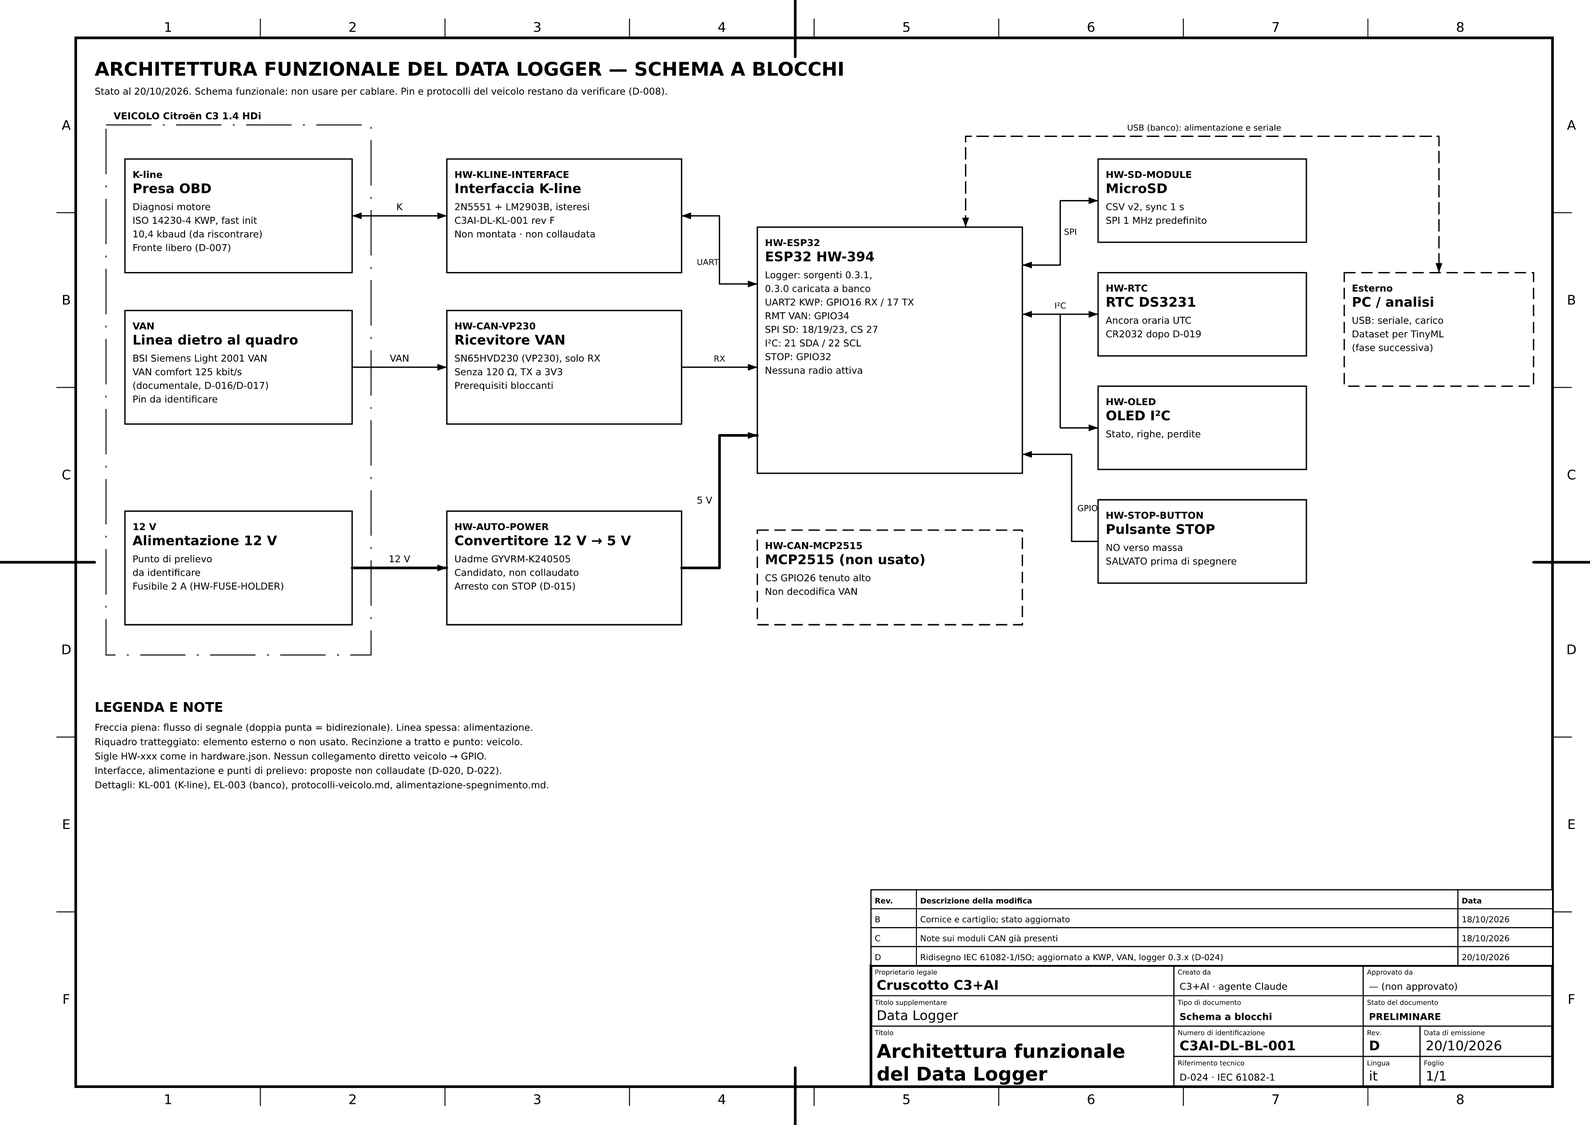
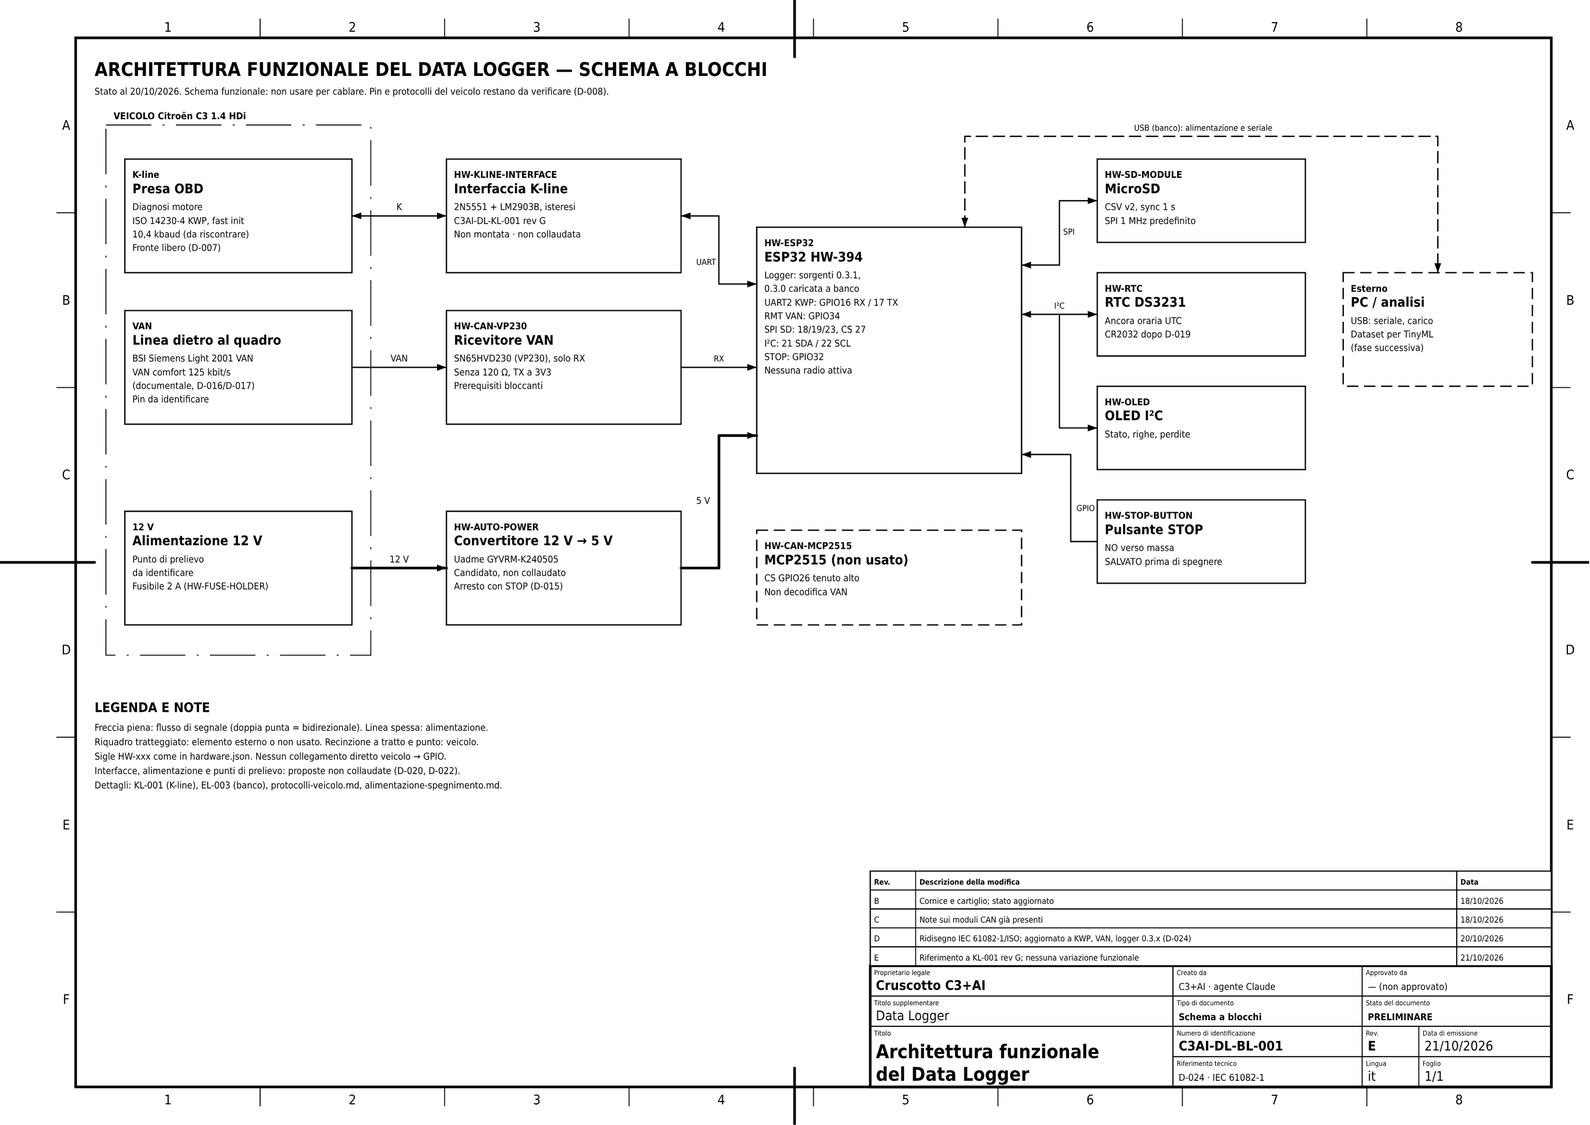
K-line: R3 del simulatore a 1 W 5% (D-028), KL-001 rev G
- D-028: R3 510 ohm 1 W al 5% (all'1% reperibile solo 0,6 W, all'85%
  della nominale a 16 V). Soglie e isteresi invariate (R4-R8, R10 all'1%).
- KL-001 rev G: distinta sul foglio e modello DC ricalcolati
  (R3 max 0,528 W, beta forzato max 8,87 < 10). BL-001 rev E: solo
  riferimento a KL-001 rev G.
- Distinta rev K, kline-autocostruita.md rev G con codici candidati
  Farnell (LM2903BYDT, 2N5551BU, EP1WSS510RJ) e datasheet ST LM2903B.
- hardware.json e inventario rigenerato.

Limiti: componenti non ordinati, nulla montato o collaudato. Anteprime
PNG rese con Chromium headless (resvg non disponibile qui). Nessuna
modifica firmware: build non ripetuta.

Claude-Session: https://claude.ai/code/session_01K5uUfRR1cYXhNcFagR7vVd

diff --git a/data-logger/docs/tools/genera-kline-banco.py b/data-logger/docs/tools/genera-kline-banco.py
@@ -35,16 +35,16 @@ assert min(hyst)>.4, 'hysteresis below 0.4 V at K'
 max_input=vsense(16,67320,10100,R10*.99,3.465,4700*.99)
 assert max_input < 4.75-2
 base_min=(2.5-1.2)/(330*1.05)-1.2/(47000*.95)
-collector_max=16/(510*.99)
+collector_max=16/(510*.95)  # rev G: R3 5 % (D-028)
 assert collector_max/base_min<10
-print(f"DC model: falling/VBAT={min(falling):.4f}..{max(falling):.4f}; rising/VBAT={min(rising):.4f}..{max(rising):.4f}; hysteresis_K={min(hyst):.3f}..{max(hyst):.3f}V; input_max={max_input:.3f}V; forced_beta_max={collector_max/base_min:.2f}; R3_power_max={16**2/(510*.99):.3f}W")
+print(f"DC model: falling/VBAT={min(falling):.4f}..{max(falling):.4f}; rising/VBAT={min(rising):.4f}..{max(rising):.4f}; hysteresis_K={min(hyst):.3f}..{max(hyst):.3f}V; input_max={max_input:.3f}V; forced_beta_max={collector_max/base_min:.2f}; R3_power_max={16**2/(510*.95):.3f}W")
 
 
 
 def it(v, n): return f'{v:.{n}f}'.replace('.', ',')
 
-# --- Disegno C3AI-DL-KL-001 rev F (D-024): IEC 60617 / IEC 61082-1, foglio ISO 5457 A3 ---
-d = Sheet('C3AI-DL-KL-001 rev F — Interfaccia K-line autocostruita')
+# --- Disegno C3AI-DL-KL-001 rev G (D-024, D-028): IEC 60617 / IEC 61082-1, foglio ISO 5457 A3 ---
+d = Sheet('C3AI-DL-KL-001 rev G — Interfaccia K-line autocostruita')
 d.frame()
 d.text(25, 20, 'INTERFACCIA K-LINE AUTOCOSTRUITA — SCHEMA ELETTRICO', 5, bold=True)
 d.text(25, 25, 'Prototipo da banco, non collaudato. Nessun collegamento al veicolo autorizzato da questo documento.', 2.5)
@@ -129,7 +129,7 @@ parts = [
     ('10', 'R10', '1', '330 kΩ, 0,25 W, 1 %', 'Isteresi (rev E, D-022)'),
     ('11', 'C1', '1', '100 nF, ceramico', 'Vicino ai pin 8 e 4 di U1'),
     ('12', 'C2', '1', '10 µF, 16 V, elettrolitico', 'Rispettare la polarità'),
-    ('13', 'R3', '1', '510 Ω, 1 W, 1 %', 'Solo -A2 simulatore, non nel modulo'),
+    ('13', 'R3', '1', '510 Ω, 1 W, 5 %', 'Solo -A2 simulatore, non nel modulo'),
     ('14', '—', '1 ins.', 'Millefori, morsetti, fili', ''),
 ]
 d.parts_list(25, 192, parts, widths=(10, 15, 11, 62, 82))
@@ -145,9 +145,9 @@ d.notes(212, 196, 'NOTE', [
 ], step=3.6)
 d.title_block(title=['Interfaccia K-line', 'autocostruita'], subtitle='Data Logger',
               doc_type='Schema elettrico', status='NON COLLAUDATO · solo banco',
-              code='C3AI-DL-KL-001', rev='F', date='20/10/2026', sheet='1/1',
-              revisions=[('C', 'Eliminato JP1; R3 solo nel simulatore esterno (D-018)', '18/10/2026'),
-                         ('D', 'Porte esterne evidenziate; nessuna variazione elettrica', '18/10/2026'),
+              code='C3AI-DL-KL-001', rev='G', date='21/10/2026', sheet='1/1',
+              revisions=[('D', 'Porte esterne evidenziate; nessuna variazione elettrica', '18/10/2026'),
                          ('E', 'Aggiunta R10 per isteresi del comparatore (D-022)', '20/10/2026'),
-                         ('F', 'Ridisegno secondo IEC 60617 / IEC 61082-1 / ISO 5457 / ISO 7200 (D-024)', '20/10/2026')])
+                         ('F', 'Ridisegno secondo IEC 60617 / IEC 61082-1 / ISO 5457 / ISO 7200 (D-024)', '20/10/2026'),
+                         ('G', 'R3 con tolleranza 5 % (D-028); reti e valori invariati', '21/10/2026')])
 (ROOT/'schema-kline-banco.svg').write_text(d.svg('Schema elettrico IEC 61082-1 dell\'interfaccia K-line da banco; non collaudato.'), encoding='utf-8')

diff --git a/data-logger/docs/tools/genera-schemi.py b/data-logger/docs/tools/genera-schemi.py
@@ -79,7 +79,7 @@ d.title_block(title=['Collegamenti proposta', 'iniziale (storico)'], subtitle='D
 (ROOT / 'schema-collegamenti.svg').write_text(d.svg('Documento storico, sostituito da C3AI-DL-EL-003.'), encoding='utf-8')
 
 # ---------------------------------------------------------------- BL-001 ---
-b = Sheet('C3AI-DL-BL-001 rev D — Architettura funzionale del Data Logger')
+b = Sheet('C3AI-DL-BL-001 rev E — Architettura funzionale del Data Logger')
 b.frame()
 b.text(25, 20, 'ARCHITETTURA FUNZIONALE DEL DATA LOGGER — SCHEMA A BLOCCHI', 5, bold=True)
 b.text(25, 25, 'Stato al 20/10/2026. Schema funzionale: non usare per cablare. Pin e protocolli del veicolo restano da verificare (D-008).', 2.5)
@@ -89,7 +89,7 @@ b.block(33, 42, 60, 30, 'Presa OBD', ['Diagnosi motore', 'ISO 14230-4 KWP, fast 
 b.block(33, 82, 60, 30, 'Linea dietro al quadro', ['BSI Siemens Light 2001 VAN', 'VAN comfort 125 kbit/s', '(documentale, D-016/D-017)', 'Pin da identificare'], ref='VAN')
 b.block(33, 135, 60, 30, 'Alimentazione 12 V', ['Punto di prelievo', 'da identificare', 'Fusibile 2 A (HW-FUSE-HOLDER)'], ref='12 V')
 
-b.block(118, 42, 62, 30, 'Interfaccia K-line', ['2N5551 + LM2903B, isteresi', 'C3AI-DL-KL-001 rev F', 'Non montata · non collaudata'], ref='HW-KLINE-INTERFACE')
+b.block(118, 42, 62, 30, 'Interfaccia K-line', ['2N5551 + LM2903B, isteresi', 'C3AI-DL-KL-001 rev G', 'Non montata · non collaudata'], ref='HW-KLINE-INTERFACE')
 b.block(118, 82, 62, 30, 'Ricevitore VAN', ['SN65HVD230 (VP230), solo RX', 'Senza 120 Ω, TX a 3V3', 'Prerequisiti bloccanti'], ref='HW-CAN-VP230')
 b.block(118, 135, 62, 30, 'Convertitore 12 V → 5 V', ['Uadme GYVRM-K240505', 'Candidato, non collaudato', 'Arresto con STOP (D-015)'], ref='HW-AUTO-POWER')
 
@@ -124,10 +124,11 @@ b.notes(25, 188, 'LEGENDA E NOTE', [
 ])
 b.title_block(title=['Architettura funzionale', 'del Data Logger'], subtitle='Data Logger',
               doc_type='Schema a blocchi', status='PRELIMINARE',
-              code='C3AI-DL-BL-001', rev='D', date='20/10/2026', sheet='1/1',
+              code='C3AI-DL-BL-001', rev='E', date='21/10/2026', sheet='1/1',
               revisions=[('B', 'Cornice e cartiglio; stato aggiornato', '18/10/2026'),
                          ('C', 'Note sui moduli CAN già presenti', '18/10/2026'),
-                         ('D', 'Ridisegno IEC 61082-1/ISO; aggiornato a KWP, VAN, logger 0.3.x (D-024)', '20/10/2026')])
+                         ('D', 'Ridisegno IEC 61082-1/ISO; aggiornato a KWP, VAN, logger 0.3.x (D-024)', '20/10/2026'),
+                         ('E', 'Riferimento a KL-001 rev G; nessuna variazione funzionale', '21/10/2026')])
 (ROOT / 'schema-sistema.svg').write_text(b.svg('Schema a blocchi funzionale preliminare, non schema di cablaggio.'), encoding='utf-8')
 
 for f in ROOT.glob('*.svg'):

diff --git a/data-logger/docs/kline-autocostruita.md b/data-logger/docs/kline-autocostruita.md
@@ -1,6 +1,6 @@
 # K-line autocostruita — Cruscotto C3+AI / Data Logger
 
-Revisione F, 20/10/2026. Disegno C3AI-DL-KL-001, rev F (D-022: isteresi R10; D-024: disegno IEC/ISO).
+Revisione G, 21/10/2026. Disegno C3AI-DL-KL-001, rev G (D-022: isteresi R10; D-024: disegno IEC/ISO; D-028: R3 al 5%).
 **Prototipo da banco non collaudato: nessun collegamento al veicolo.**
 Scelta utente: realizzare l'interfaccia in proprio; la scelta non certifica
 il circuito o autorizza pin auto presunti. Ambito D-008, D-010, D-011, D-013.
@@ -19,7 +19,7 @@ Non e una piedinatura del veicolo o una scheda automotive certificata.
 
 ## Distinta per un prototipo da banco
 
-Tutte le resistenze dei partitori a tolleranza 1%; valori da acquistare solo
+Tutte le resistenze dei partitori a tolleranza 1% (R3 del simulatore 5%, D-028); valori da acquistare solo
 se non gia disponibili. Possesso/ordine di questi componenti non confermato.
 
 | Rif. | Quantita | Valore / componente | Nota |
@@ -28,7 +28,7 @@ se non gia disponibili. Possesso/ordine di questi componenti non confermato.
 | U1 | 1 | LM2903B, versione SOIC-8 | Adattatore SOIC-8 → DIP-8; non scambiare con LM2903 senza B |
 | R1 | 1 | 330 ohm, 0,25 W, 5% | Base TX |
 | R2 | 1 | 47 kohm, 0,25 W, 5% | Base-emettitore, Q1 spento a GPIO flottante |
-| R3 | 1 | 510 ohm, 1 W, 1% | Solo simulatore esterno da banco; non montare nel modulo |
+| R3 | 1 | 510 ohm, 1 W, 5% | Solo simulatore esterno da banco; non montare nel modulo (D-028) |
 | R4 | 1 | 68 kohm, 0,25 W, 1% | Partitore K |
 | R5, R7 | 2 | 10 kohm, 0,25 W, 1% | Partitori verso massa |
 | R6 | 1 | 150 kohm, 0,25 W, 1% | Riferimento VBENCH |
@@ -103,9 +103,10 @@ Con resistori all'1% (partitori, R8 e R10), offset assunto +/-3 mV, 3V3 a
 - isteresi riferita alla linea K 0,545-0,721 V, indipendente da VBENCH
   (circa 3,3 V × R4 / (R10 + R8)); in rev D era assente;
 - massimo ingresso comparatore 2,123 V, sotto 4,75-2 V;
-- beta forzato massimo calcolato circa 8,51 con TX minimo assunto 2,5 V,
+- beta forzato massimo calcolato circa 8,87 con TX minimo assunto 2,5 V,
   VBE massimo assunto 1,2 V e tolleranze resistenze base;
-- R3 massimo calcolato 0,507 W a 16 V: selezionata 1 W per il banco.
+- R3 al 5% (minimo 484,5 ohm): massimo calcolato 0,528 W a 16 V, corrente
+  di collettore massima 33 mA; selezionata 1 W per il banco (D-028).
 
 Sono calcoli con ipotesi esplicite: non provano VCEsat al punto reale,
 commutazione del transistor, isteresi, margini ai disturbi, propagazione,
@@ -123,6 +124,7 @@ Schema e generatore prodotti per questo repository, senza copia di immagini
 esterne. Riferimenti funzionali e limiti dei componenti:
 
 - [TI LM2903B datasheet](https://www.ti.com/lit/ds/symlink/lm2903b.pdf): pinout, uscita open collector, alimentazione e campo ingressi; verificare codice ordinato.
+- [ST LM2903B datasheet](https://www.st.com/resource/en/datasheet/lm2903b.pdf): codice candidato LM2903BYDT (SO-8, AEC-Q100); stessa piedinatura del TI, modo comune fino a VCC − 2 V, VOL massima 350 mV a 4 mA e 5 V.
 - [onsemi 2N5551 datasheet](https://www.onsemi.com/pdf/datasheet/2n5551t-d.pdf): NPN TO-92 e caratteristiche; il collaudo resta necessario.
 - [ELM327 DSL](https://elmelectronics.com/wp-content/uploads/2020/05/ELM327DSL.pdf): distinzione KWP fast init da solo invio UART.
 
@@ -143,6 +145,23 @@ alla linea simulata come alla linea della vettura, con alimentazioni e masse
 corrette. Il solo richiamo resistivo simula il carico statico, non risposte ECU,
 disturbi o transitori della vettura; non costituisce collaudo KWP completo.
 In auto non montare R3 aggiuntiva senza riscontro del richiamo gia presente.
+
+## Revisione G — tolleranza di R3, 21/10/2026
+
+D-028. R3 (510 ohm, 1 W) passa da 1% a 5%: all'1% risulta reperibile solo
+una versione da 0,6 W, che a 16 V lavorerebbe all'85% della potenza nominale.
+R3 è solo nel simulatore esterno -A2 e non entra nel calcolo di soglie e
+isteresi, che dipendono da R4-R7, R8 e R10 (invariate all'1%). Il generatore
+ricalcola corrente e dissipazione con 510 ohm − 5%: 0,528 W e beta forzato
+massimo 8,87, entro il limite di 10. Nessun'altra variazione elettrica.
+
+Codici candidati individuati dall'utente su Farnell il 21/10/2026, non ordinati:
+
+| Rif. | Codice | Riscontro sul datasheet |
+| --- | --- | --- |
+| U1 | ST LM2903BYDT (Farnell 4122371) | Versione B in SO-8, piedinatura identica a TI; uscita a collettore aperto dedotta (corrente di fuga specificata a 36 V), non dichiarata da ST |
+| Q1 | onsemi 2N5551BU (Farnell 9846751) | TO-92 sfuso, terminali dritti; datasheet già in fonti. Piedinatura E/B/C da verificare con prova diodo |
+| R3 | TE Neohm EP1WSS510RJ (Farnell 4219432) | 510 ohm, 1 W, 5%, assiale a filo |
 
 ## Revisione F — ridisegno secondo le norme, 20/10/2026
 

diff --git a/data-logger/docs/hardware-inventory.md b/data-logger/docs/hardware-inventory.md
@@ -274,7 +274,7 @@ Le decisioni definitive restano nel [README principale](../../README.md#decision
 
 **Stato:** `candidate` · **Quantità:** 1 · **Ambito:** Data Logger
 
-**Fonte:** Proposta 18/10/2026: https://www.mikroe.com/iso-9141-click e schema ufficiale v101 https://download.mikroe.com/documents/add-on-boards/click/iso_9141_click/iso-9141-click-schematic-v101.pdf. UART, selezione logica 3,3/5 V, VS separata 4,5-36 V. Nessun ordine confermato. Utente: MIKROE-4331 non trovato disponibile il 18/10/2026. Alternative esplorate: interfaccia da assemblare su E-L9637D, oppure Freematics OBD-II UART Adapter V2.1; nessuna alternativa acquistata o confermata. Utente propone circuito discreto con 2 NPN o PC817 e pull-up 510 Ohm/0,5 W: registrato come alternativa non approvata, senza schema completo ne conferma di possesso componenti. Scelta utente 18/10/2026: ok procediamo con il circuito autocostruito (D-013). Progetto locale schema-kline-banco.svg rev A, generatore e calcoli DC in tools/genera-kline-banco.py; nessun risultato sperimentale. Revisione B 18/10/2026: schema completo U1 e distinta sul foglio; pinout TI SLCS005AH sezione 4. Corretto contenitore LM2903B: SOIC-8 con adattatore DIP-8, non PDIP-8. Nessun acquisto o collaudo aggiuntivo. Revisione C, D-018: eliminato JP1; R3 510 ohm solo nel simulatore esterno da banco, non nel modulo. Nessun nuovo acquisto o collaudo. Revisione D: evidenziate porte TX ingresso, RX uscita e K-line bidirezionale; nessuna variazione elettrica. Revisione E 20/10/2026, D-022: R10 330 kohm 1% da OUT1 a IN1+ per isteresi 0,545-0,721 V sulla linea K (modello DC); possesso di R10 non confermato, nessun collaudo. Revisione F 20/10/2026, D-024: ridisegno IEC 60617 / IEC 61082-1 su foglio ISO, nessuna variazione elettrica.
+**Fonte:** Proposta 18/10/2026: https://www.mikroe.com/iso-9141-click e schema ufficiale v101 https://download.mikroe.com/documents/add-on-boards/click/iso_9141_click/iso-9141-click-schematic-v101.pdf. UART, selezione logica 3,3/5 V, VS separata 4,5-36 V. Nessun ordine confermato. Utente: MIKROE-4331 non trovato disponibile il 18/10/2026. Alternative esplorate: interfaccia da assemblare su E-L9637D, oppure Freematics OBD-II UART Adapter V2.1; nessuna alternativa acquistata o confermata. Utente propone circuito discreto con 2 NPN o PC817 e pull-up 510 Ohm/0,5 W: registrato come alternativa non approvata, senza schema completo ne conferma di possesso componenti. Scelta utente 18/10/2026: ok procediamo con il circuito autocostruito (D-013). Progetto locale schema-kline-banco.svg rev A, generatore e calcoli DC in tools/genera-kline-banco.py; nessun risultato sperimentale. Revisione B 18/10/2026: schema completo U1 e distinta sul foglio; pinout TI SLCS005AH sezione 4. Corretto contenitore LM2903B: SOIC-8 con adattatore DIP-8, non PDIP-8. Nessun acquisto o collaudo aggiuntivo. Revisione C, D-018: eliminato JP1; R3 510 ohm solo nel simulatore esterno da banco, non nel modulo. Nessun nuovo acquisto o collaudo. Revisione D: evidenziate porte TX ingresso, RX uscita e K-line bidirezionale; nessuna variazione elettrica. Revisione E 20/10/2026, D-022: R10 330 kohm 1% da OUT1 a IN1+ per isteresi 0,545-0,721 V sulla linea K (modello DC); possesso di R10 non confermato, nessun collaudo. Revisione F 20/10/2026, D-024: ridisegno IEC 60617 / IEC 61082-1 su foglio ISO, nessuna variazione elettrica. Revisione G 21/10/2026, D-028: R3 510 ohm 1 W al 5% (all'1% reperibile solo 0,6 W); soglie e isteresi invariate. Candidati Farnell individuati dall'utente il 21/10/2026, non ordinati: U1 ST LM2903BYDT (4122371), Q1 onsemi 2N5551BU (9846751), R3 TE Neohm EP1WSS510RJ (4219432).
 
 **Verifiche documentate:**
 
@@ -285,7 +285,7 @@ Le decisioni definitive restano nel [README principale](../../README.md#decision
 - Possesso e ordine dei singoli componenti non confermati; distinta di costruzione in docs/kline-autocostruita.md.
 - Verifica montaggio, pin transistor secondo produttore, assenza corti e alimentazioni su banco limitato in corrente; alimentatore banco non confermato.
 - Misura statica e temporale RX/TX, eco, livelli 3,3 V, commutazione e margini UART a 10400; nessun firmware K-line caricato.
-- Protezioni automotive, corti, transitori, alimentazioni parziali e compatibilita reale con auto da progettare/collaudare. Lo schema rev F e solo da banco.
+- Protezioni automotive, corti, transitori, alimentazioni parziali e compatibilita reale con auto da progettare/collaudare. Lo schema rev G e solo da banco.
 
 ### HW-STOP-BUTTON — Pulsante STOP momentaneo normalmente aperto
 

diff --git a/README.md b/README.md
@@ -1,7 +1,7 @@
 # Cruscotto C3+AI
 
 > **Data Logger in pausa dal 20/10/2026 (D-025), fino a quando il modulo K-line
-> ([KL-001 rev F](data-logger/docs/kline-autocostruita.md)) sarà pronto.**
+> ([KL-001 rev G](data-logger/docs/kline-autocostruita.md)) sarà pronto.**
 > Alla ripresa: procurare anche una CR2032 per l'RTC (ramo di ricarica già
 > interrotto, RTC-M007), cablare la SD secondo [EL-003 rev B](data-logger/docs/collegamenti-banco-030.md)
 > e fare la prima registrazione a banco. Dettagli nel [registro moduli](data-logger/docs/verifiche-moduli.md).
@@ -68,6 +68,7 @@ Le date indicano la registrazione, non necessariamente la prima discussione.
 | D-025 | approvata | Data Logger in pausa dal 20/10/2026 fino a quando il modulo K-line (KL-001) sarà pronto. Alla ripresa: CR2032 da procurare, cablaggio SD (EL-003 rev B) e prima registrazione a banco con prova di mantenimento dell'ora. | Utente 20/10/2026: "al momento metterei in pausa questo progetto secondario", precisato: "finché non avrò pronto il modulo K". Nessuna decisione tecnica modificata; verifiche aperte invariate. |
 | D-026 | approvata | Avviare il **Cruscotto digitale** durante la pausa del Data Logger (D-025). Aggiorna l'ordine di lavoro di D-002; perimetro invariato (unico repository). Primo passo: diagnosi della scheda RCmall ESP32-S3 5″ (HW-DASH-DISPLAY) secondo la sezione "Diagnosi all'arrivo della scheda". | Utente 20/10/2026: "voglio iniziare con il progetto del cruscotto"; dichiara di possedere la scheda ("Ce l'ho"). Possesso dichiarato, modello e variante non riscontrati; nessun driver o GPIO fissato. |
 | D-027 | approvata | Cruscotto **senza interazione touch**: display dietro la copertura trasparente del quadro; variante ordinata senza touch. Nessun input tattile nella UI. | Utente 20/10/2026: "l'ho ordinato non touch perché tanto andrà dietro la copertura trasparente del cruscotto e non ci sarà modo di interagire con il tocco". Comandi eventuali (es. cambio pagina) da definire separatamente. |
+| D-028 | approvata | R3 del simulatore da banco K-line: 510 ohm, **1 W, 5%** invece di 1 W, 1%. KL-001 rev G, distinta rev K. Soglie e isteresi invariate (dipendono da R4-R8 e R10 all'1%). | Utente 21/10/2026: all'1% trova solo una 600 mW, che a 16 V lavorerebbe all'85% della nominale (0,51 W); su proposta di usare la 1 W al 5%, risponde "aggiorna". Candidato individuato TE Neohm EP1WSS510RJ, non ordinato. |
 
 Nessuna nuova proposta tecnica è resa definitiva solo perché compare in una
 risposta, nella distinta proposta o in un disegno. Per cambiare una decisione
@@ -199,7 +200,7 @@ i cui sorgenti sono conservati. CAN non collaudato; nessuna connessione al veico
 ### Interfaccia K-line autocostruita
 
 Scelta D-013: [schema e distinta del prototipo a banco](data-logger/docs/kline-autocostruita.md),
-rev F (isteresi R10 D-022, disegno IEC D-024). NPN e comparatore, calcoli DC verificati; non montato o collaudato.
+rev G (isteresi R10 D-022, disegno IEC D-024, R3 al 5% D-028). NPN e comparatore, calcoli DC verificati; non montato o collaudato.
 Installazione auto e protezioni ancora da progettare.
 
 ### Logger temporaneo: arresto manuale

diff --git a/data-logger/docs/README.md b/data-logger/docs/README.md
@@ -77,7 +77,10 @@ applica in modo uniforme:
 | Scrittura e linee | ISO 3098, ISO 128 | Testo diritto 2–7 mm; linee 0,25 / 0,35 / 0,7 mm |
 
 Gli SVG sono la fonte; i PNG sono anteprime a 200 dpi in 16 livelli di grigio,
-ottenute con resvg (open source) e controllate visivamente. Rigenerare con:
+ottenute con resvg (open source) e controllate visivamente. Eccezione: le
+anteprime di KL-001 rev G e BL-001 rev E (21/10/2026) sono rese con Chromium
+headless, perché resvg non era installabile nell'ambiente; stesso formato,
+controllate visivamente. Rigenerarle con resvg alla prossima modifica. Rigenerare con:
 
 ```text
 python data-logger/docs/tools/genera-kline-banco.py
@@ -85,9 +88,9 @@ python data-logger/docs/tools/genera-schemi.py
 python tools/genera-collegamenti-banco.py
 ```
 
-Elaborati correnti: KL-001 rev F (schema elettrico K-line), EL-003 rev B (schema
-di collegamento banco, con tabella dei fili W1–W16), BL-001 rev D (schema a
-blocchi aggiornato al 20/10/2026). EL-001 rev E è conservato come storico e
+Elaborati correnti: KL-001 rev G (schema elettrico K-line), EL-003 rev B (schema
+di collegamento banco, con tabella dei fili W1–W16), BL-001 rev E (schema a
+blocchi aggiornato al 21/10/2026). EL-001 rev E è conservato come storico e
 marcato SOSTITUITO: non usarlo per cablare. Il ridisegno non modifica reti,
 valori o GPIO e non costituisce verifica del cablaggio.
 

diff --git a/data-logger/docs/distinta-hardware.md b/data-logger/docs/distinta-hardware.md
@@ -1,6 +1,6 @@
 # Distinta hardware — Cruscotto C3+AI / Data Logger
 
-Revisione J — 18/10/2026. Proposta tecnica consolidata, non ordine di acquisto
+Revisione K — 21/10/2026 (R3 al 5%, D-028). Proposta tecnica consolidata, non ordine di acquisto
 né schema esecutivo auto. Fonte per disponibilità e collaudi: hardware.json.
 Vincoli D-002, D-003, D-004, D-005, D-006, D-007, D-008, D-010 e D-011.
 La richiesta di definire l'hardware non equivale ad approvazione di moduli
@@ -24,7 +24,7 @@ chiamato batteria coincide con RTC. Non ricomprare i componenti gia censiti.
 | 1 | 2N5551 NPN TO-92 | K-line, pinout secondo produttore |
 | 1 + 1 + 1 | LM2903B SOIC-8, adattatore SOIC-8 → DIP-8 e zoccolo DIP-8 | Ricevitore K-line del prototipo documentato |
 | 1 ciascuna | Resistenze 330 ohm e 47 kohm, 0,25 W, 5% | K-line |
-| 1 | Resistenza 510 ohm, 1 W, 1% | Solo simulatore esterno da banco, non montata nel modulo K-line |
+| 1 | Resistenza 510 ohm, 1 W, 5% | Solo simulatore esterno da banco, non montata nel modulo K-line (D-028) |
 | 1 ciascuna | Resistenze 68 kohm, 150 kohm e 4,7 kohm, 0,25 W, 1% | K-line |
 | 2 | Resistenze 10 kohm, 0,25 W, 1% | K-line |
 | 1 | Resistenza 1 kohm, 0,25 W | K-line |

diff --git a/data-logger/README.md b/data-logger/README.md
@@ -123,7 +123,7 @@ e cablaggio posteriore OBD non ancora rilasciati per acquisto/installazione.
 
 ## K-line autocostruita
 
-Scelta D-013 registrata: [circuito a banco rev F](docs/kline-autocostruita.md), isteresi R10 (D-022),
+Scelta D-013 registrata: [circuito a banco rev G](docs/kline-autocostruita.md), isteresi R10 (D-022), R3 al 5% (D-028),
 NPN 2N5551 e comparatore LM2903B. UART 10400 con solo TX invertito.
 Schema e modello DC prodotti; componenti non confermati, nessun montaggio,
 collaudo. Driver K-line implementato nella 0.3.0, non ancora caricato.
